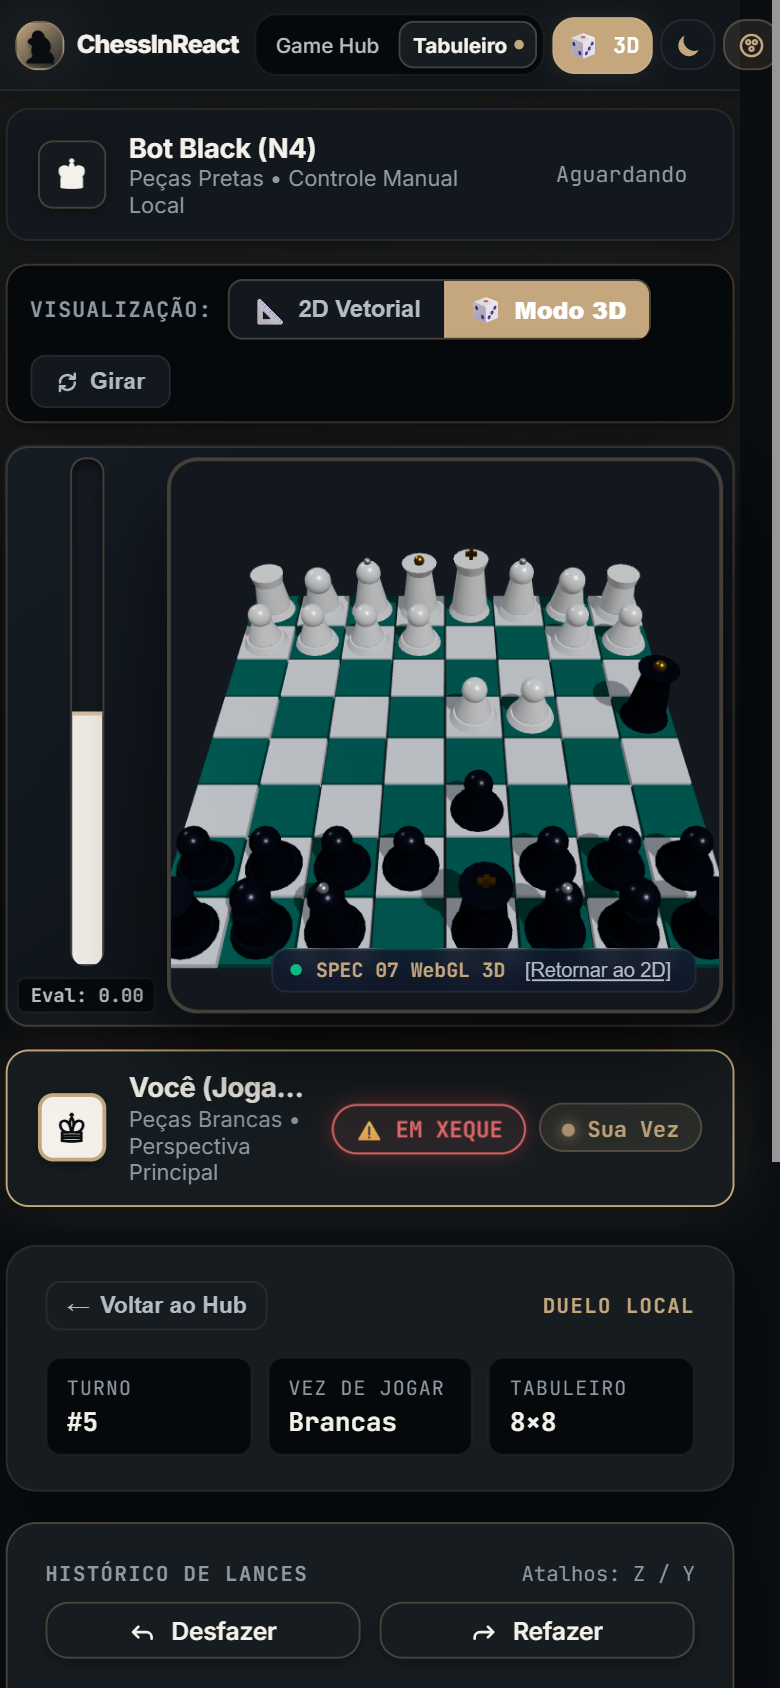
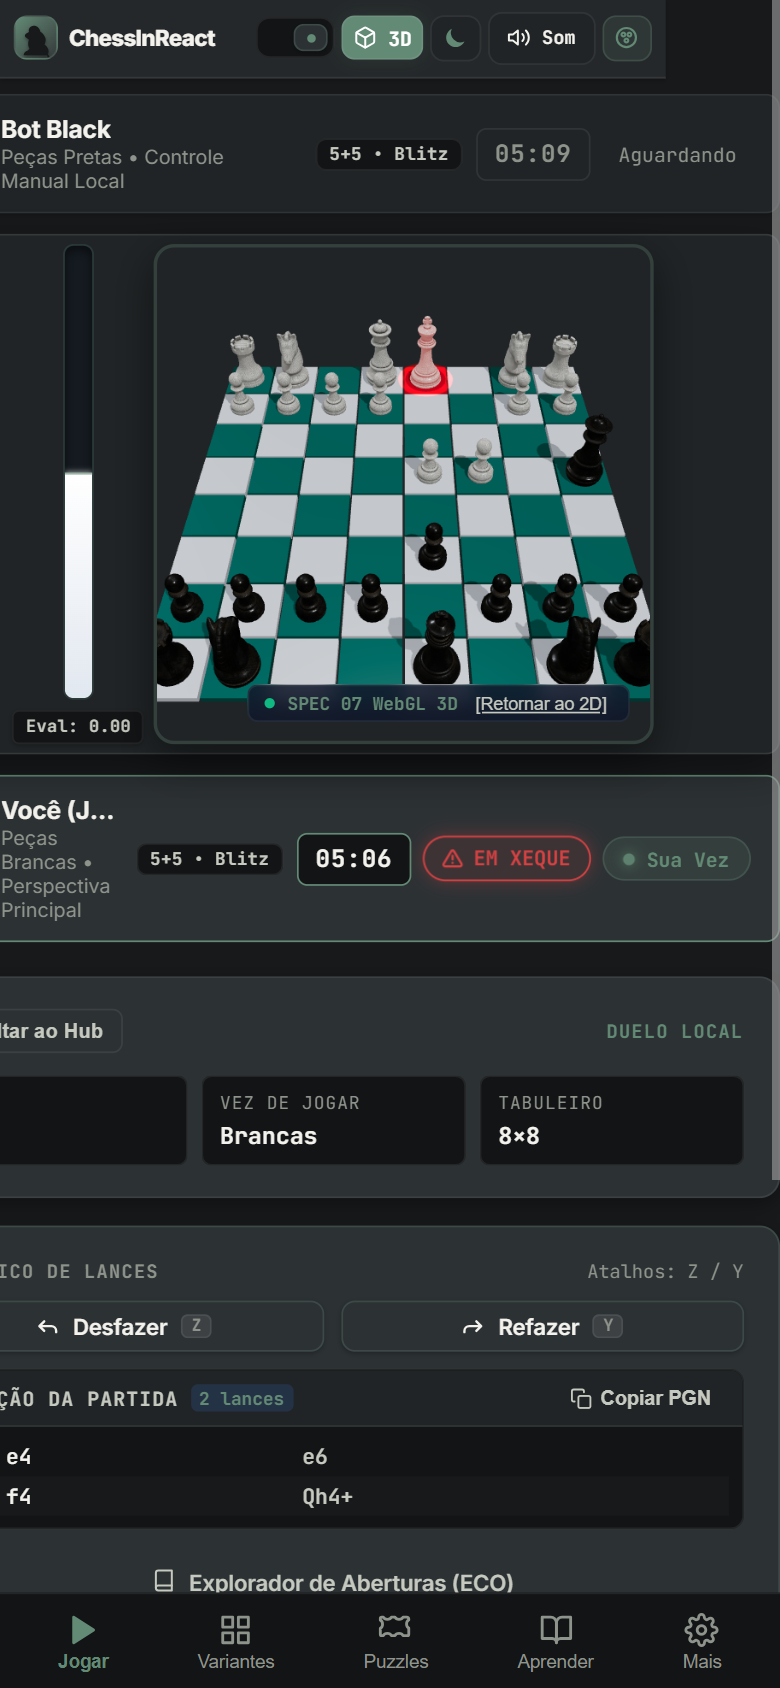
fix(ui): eliminate top nav horizontal overflow on tablet viewports and align bot difficulty labels

diff --git a/ChessInReact/src/ui/theme/theme.css b/ChessInReact/src/ui/theme/theme.css
@@ -828,6 +828,27 @@ select:focus-visible,
    Responsive Breakpoints (1920 / 1440 / 1024 / 768 / 390 / 360)
    ========================================================================== */
 @media (max-width: 1080px) {
+  .top-nav-bar {
+    padding: 0.5rem 1rem !important;
+  }
+
+  .top-nav-inner {
+    gap: 0.5rem !important;
+  }
+
+  #nav-open-theme-customizer .nav-btn-text {
+    display: none !important;
+  }
+
+  #nav-quick-view-mode-toggle .nav-btn-text {
+    display: none !important;
+  }
+
+  #nav-quick-theme-toggle .nav-brand-subtitle,
+  .nav-brand-subtitle {
+    display: none !important;
+  }
+
   .match-arena-grid {
     grid-template-columns: 1fr;
     max-width: 640px;
@@ -870,6 +891,18 @@ select:focus-visible,
 
   .nav-brand-subtitle {
     display: none !important;
+  }
+
+  .nav-status-pill {
+    display: none !important;
+  }
+
+  .nav-view-btn .nav-btn-text {
+    display: none !important;
+  }
+
+  .top-nav-inner nav {
+    gap: 0.35rem !important;
   }
 
   #nav-quick-view-mode-toggle .nav-btn-text {

diff --git a/ChessInReact/src/ui/components/hub/difficultyTypes.ts b/ChessInReact/src/ui/components/hub/difficultyTypes.ts
@@ -30,8 +30,8 @@ export const DIFFICULTY_META: readonly IDifficultyMeta[] = [
   },
   {
     level: 4,
-    name: 'Avançado',
-    desc: 'Cálculo profundo com controle posicional refinado e punição de imprecisões.',
+    name: 'Forte',
+    desc: 'Cálculo Profundo com controle posicional refinado e punição de imprecisões.',
     profile: 'Alta Pressão',
     cadence: 'Ritmo Ágil',
   },
